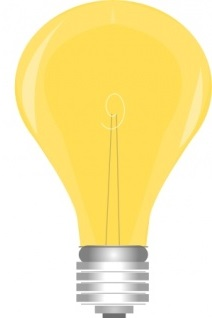
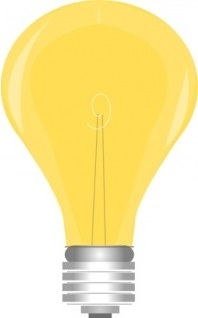
added red flow (left half) and bulb turns on

diff --git a/circuit.js b/circuit.js
@@ -38,7 +38,8 @@ var coldWire = {color:"blue", width:hotWire.width, height:hotWire.height};
 coldWire.circle = {radius:hotWire.circle.radius, x:cSwitch.center.x+halfR, y:hotWire.circle.y};
 setPos(coldWire, coldWire.circle.x-(coldWire.width/2), coldWire.left + coldWire.width, coldWire.circle.y+(coldWire.circle.radius/2), coldWire.top + coldWire.height);
 
-var bulb;
+var bulb, intHandle;
+var flow = {x:bottomL.right, y:bottomL.top, xInc:-2, yInc:0, step:2, color:"red"};
 
 canvas.addEventListener("click", clickRespond, false);
 
@@ -105,8 +106,6 @@ function drawAll(){
 }
 
 function drawArm(){
-    //switch arm
-
     ctx.save();
     ctx.translate(switchArm.x,switchArm.y)   //make switch arm xy center of rotation
     ctx.rotate(switchArm.angle * Math.PI/180);             //rotate view
@@ -118,15 +117,51 @@ function drawArm(){
     ctx.restore();
 }
 
-var angle = -30, intHandle;
 function aniArm(){
     ctx.clearRect(0, 0, canvas.width, canvas.height);
     drawAll();
     ++switchArm.angle;
     drawArm();
-    if(switchArm.angle>-10)
+    if(switchArm.angle>-10){
         clearInterval(intHandle);
+        intHandle = setInterval(aniBottomL, 20);
+    }
 }
+
+function aniBottomL(){
+    dRect(flow.x - flow.step, flow.y, flow.step, bottomL.height, flow.color)
+    flow.x -= flow.step;
+
+    drawArm();
+    if(flow.x <= bottomL.left-leftR.width){
+        clearInterval(intHandle);
+        intHandle = setInterval(aniLeftR, 20);
+    }
+}
+
+function aniLeftR(){
+    dRect(flow.x, flow.y - flow.step, leftR.width , flow.step, flow.color)
+    flow.y -= flow.step;
+
+    if(flow.y <= leftR.top){
+        clearInterval(intHandle);
+        intHandle = setInterval(aniTopL, 20);
+    }
+}
+
+function aniTopL(){
+    dRect(flow.x + flow.step, flow.y, flow.step, topL.height, flow.color)
+    flow.x += flow.step;
+
+    if(flow.x >= topL.right){
+        clearInterval(intHandle);
+        flow.x = topR.left;
+        flow.color = "blue";
+        bulb.src = "bulbOn.jpg";
+        //intHandle = setInterval(aniTopR, 20);
+    }
+}
+
 
 function clickRespond(e){
     var p = clickPos(e);
@@ -136,7 +171,6 @@ function clickRespond(e){
     if (cSwitch.status == "off"){
         intHandle = setInterval(aniArm, 20);
         //run turnOn
-
     }else{
         //turn off
     }
